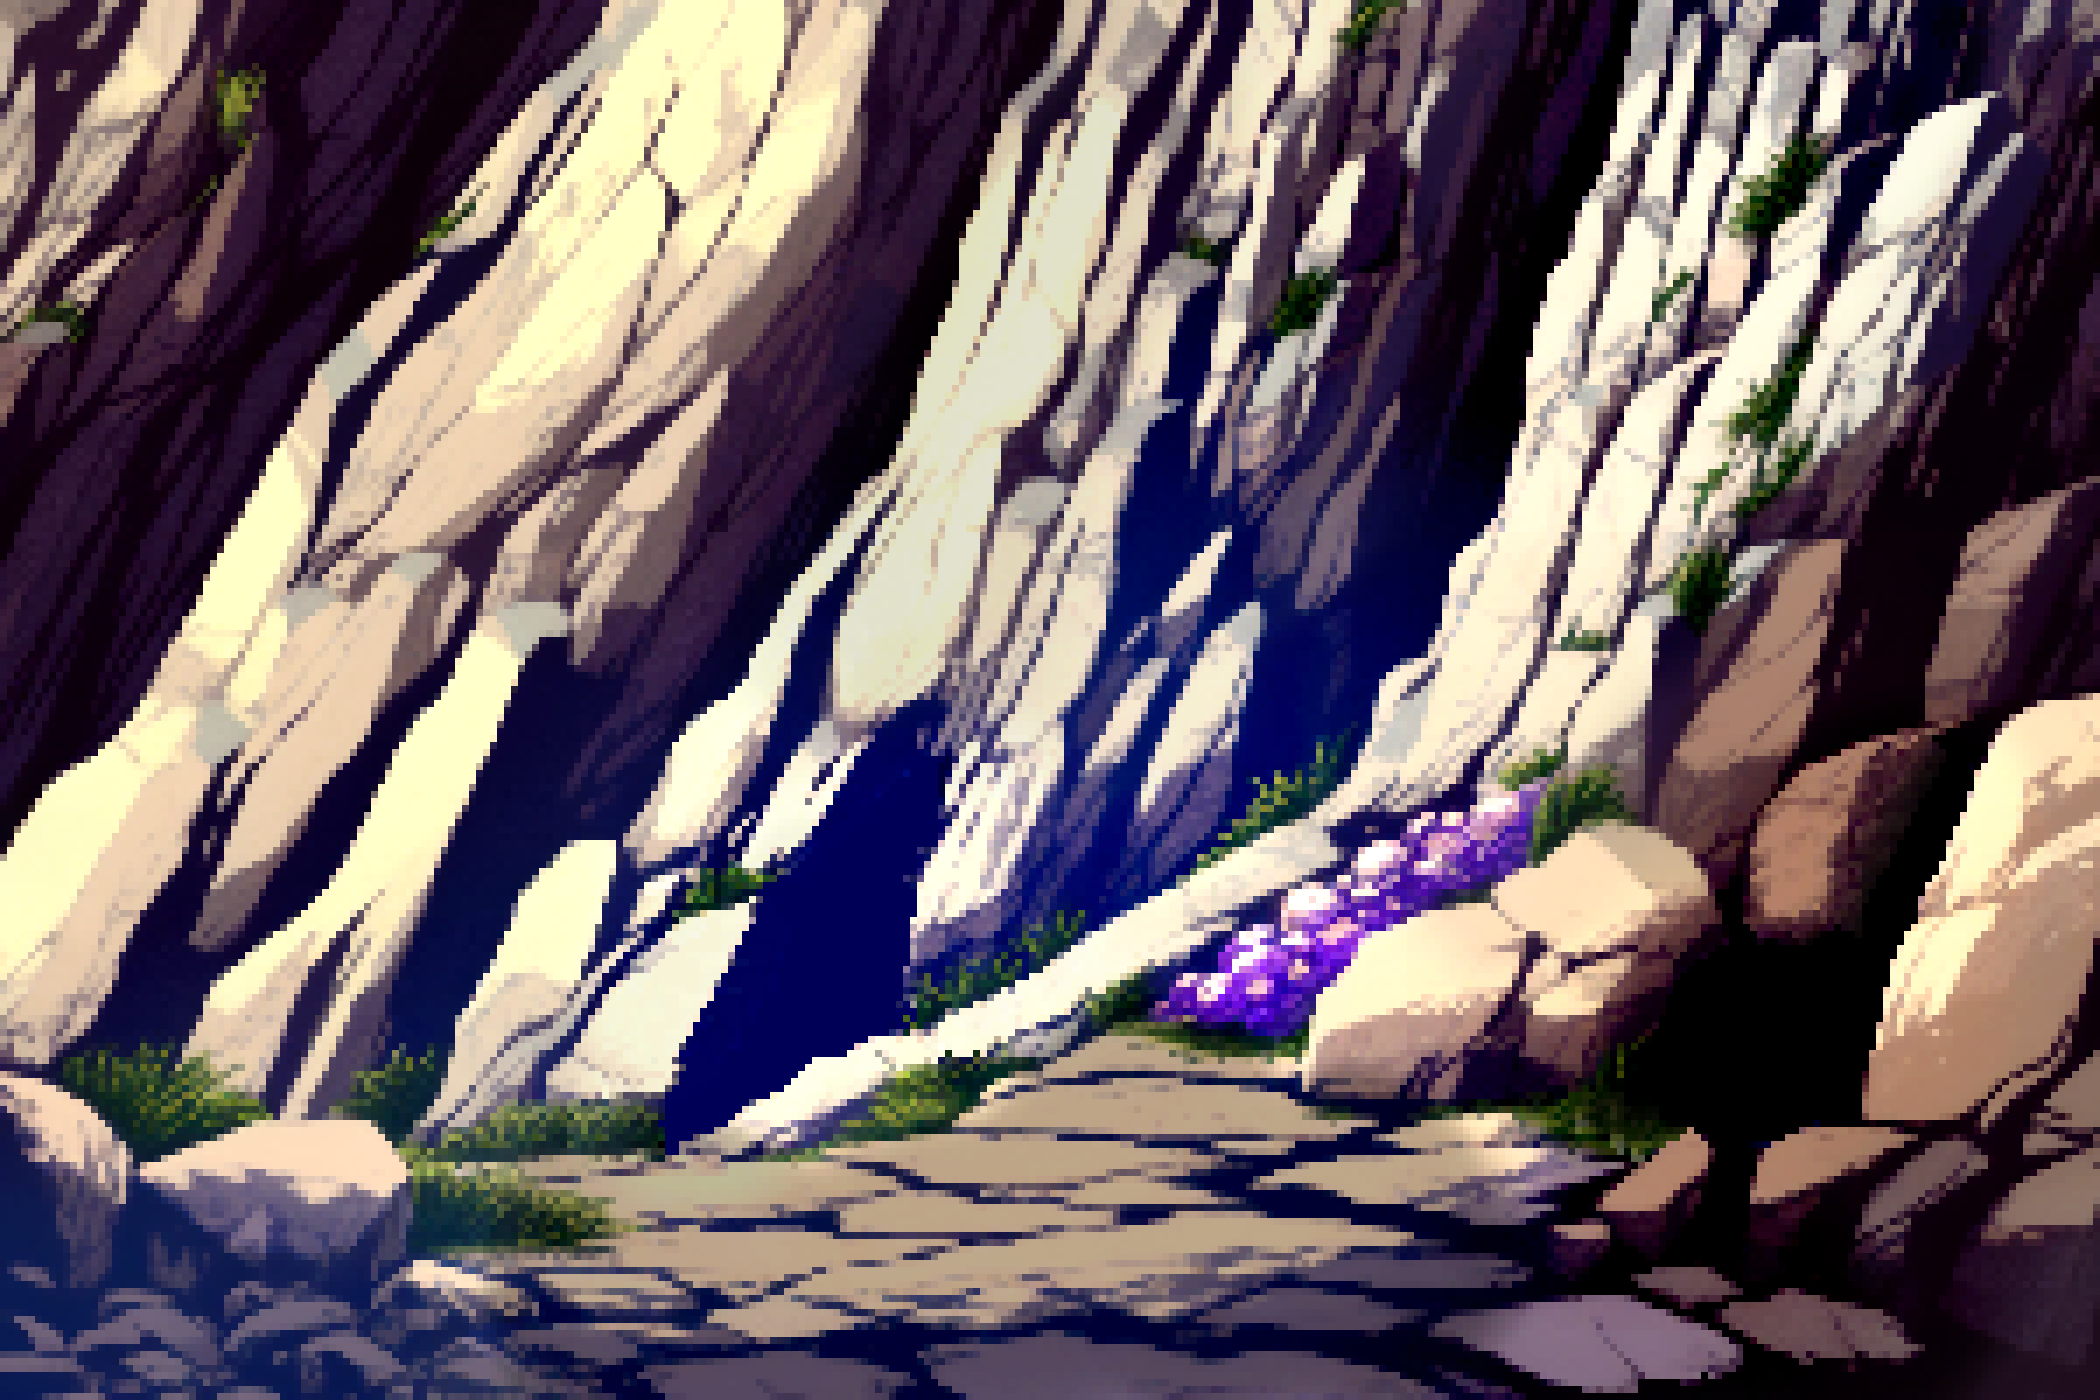
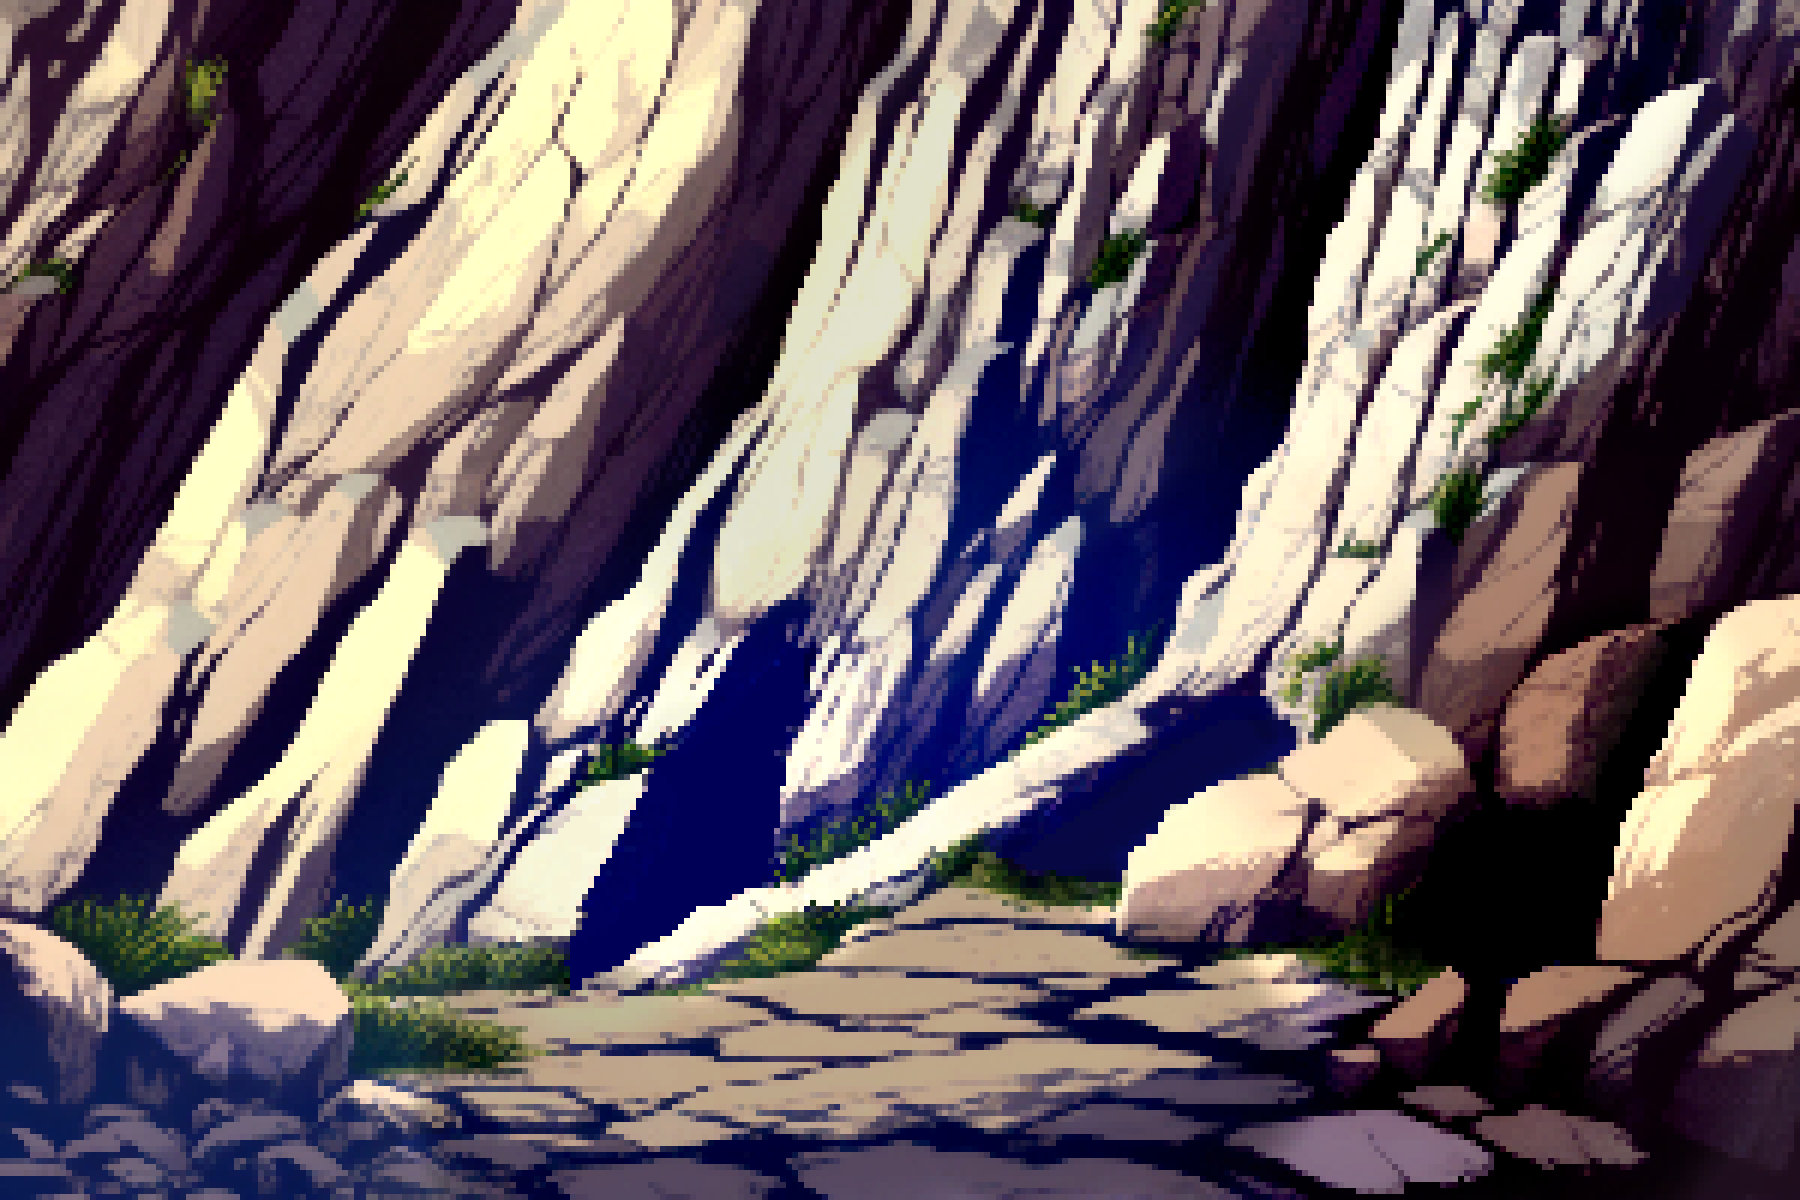
made m1l seeds general, removed p1water

Changed region(s): [[0.5289, 0.555, 0.7467, 0.74]]

diff --git a/pixel/m1l/m1l.js b/pixel/m1l/m1l.js
@@ -58,13 +58,18 @@ function ready() {
         });
     }
 
-    var hyBut = document.getElementsByClassName("amythest-seeds-but")[0];
-    hyBut.addEventListener('click', function tk() {
-        hold = held();
-        if (hold == "pickaxe" || hold == "purple-pickaxe" || hold == "red-pickaxe" || hold == "green-pickaxe"){
-            getIte("amythest-seeds");
-        }
-    });
+    var seedsBut = document.getElementsByClassName("amythest-seeds-but")[0];
+    if (localStorage.getItem("has-amythest-seeds") == "true") {
+        take(seedsBut, "amythest-seeds");
+    } else {
+        seedsBut.addEventListener('click', function tk() {
+            hold = held();
+            if (hold == "pickaxe" || hold == "purple-pickaxe" || hold == "red-pickaxe" || hold == "green-pickaxe"){
+                seedsBut.removeEventListener('click', tk);
+                take(seedsBut, "amythest-seeds");
+            }
+        });
+    }
 }
 
 function held(){
@@ -88,9 +93,17 @@ function take(button, name) {
     else {
         button.addEventListener('click', function tk() {
             hold = held();
-            if (hold == "purple-pickaxe" || hold == "red-pickaxe" || hold == "green-pickaxe"){
-                button.removeEventListener('click', tk);
-                take(button, name);
+            if (name == "amythest-seeds"){
+                if (hold == "pickaxe" || hold == "purple-pickaxe" || hold == "red-pickaxe" || hold == "green-pickaxe"){
+                    button.removeEventListener('click', tk);
+                    take(button, name);
+                }
+            }
+            else {
+                if (hold == "purple-pickaxe" || hold == "red-pickaxe" || hold == "green-pickaxe"){
+                    button.removeEventListener('click', tk);
+                    take(button, name);
+                }
             }
         });
     }
@@ -108,9 +121,17 @@ function put(button, name) {
         initItems();
         button.addEventListener('click', function tk() {
             hold = held();
-            if (hold == "purple-pickaxe" || hold == "red-pickaxe" || hold == "green-pickaxe"){
-                button.removeEventListener('click', tk);
-                take(button, name);
+            if (name == "amythest-seeds"){
+                if (hold == "pickaxe" || hold == "purple-pickaxe" || hold == "red-pickaxe" || hold == "green-pickaxe"){
+                    button.removeEventListener('click', tk);
+                    take(button, name);
+                }
+            }
+            else {
+                if (hold == "purple-pickaxe" || hold == "red-pickaxe" || hold == "green-pickaxe"){
+                    button.removeEventListener('click', tk);
+                    take(button, name);
+                }
             }
         });
     } else {

diff --git a/pixel/garden/garden.js b/pixel/garden/garden.js
@@ -114,7 +114,7 @@ function toWater(spot){
     var text = document.getElementsByClassName("plot-" + spot + "-art")[0];
 
     button.addEventListener('click', function wt(){
-        if (localStorage.getItem("spot" + localStorage.getItem("selected")) == "can" && localStorage.getItem("p1water") == "true"){
+        if (localStorage.getItem("spot" + localStorage.getItem("selected")) == "can" && localStorage.getItem("ascii-water") == "true"){
             button.removeEventListener('click', wt);
             localStorage.setItem("p1plot-state" + spot, "toGrow");
             text.innerHTML = plArts["watered"];

diff --git a/pixel/m1l/m1l.html b/pixel/m1l/m1l.html
@@ -26,6 +26,7 @@
         <img draggable="false" class="fore-art amythest1-art" src="m1l-art/m1l-left-gem.png" alt="">
         <img draggable="false" class="fore-art amythest2-art" src="m1l-art/m1l-right-gem.png" alt="">
         <img draggable="false" class="fore-art amythest3-art" src="m1l-art/m1l-center-gem.png" alt="">
+        <img draggable="false" class="fore-art amythest-seeds-art" src="m1l-art/m1l-seeds.png" alt="">
 
         <div id="award1">
             <img draggable="false" class="hide award-art" id="awardimg1" src="../../global-art/achievements/award1.png" alt="">

diff --git a/ascii/home.js b/ascii/home.js
@@ -88,7 +88,6 @@ function resett(ite){
     localStorage.setItem("rpot-full", "false");
     localStorage.setItem("tpot-full", "true");
     localStorage.setItem("ascii-water", "false");
-    localStorage.setItem("p1water", "false");
 
     localStorage.setItem("torch-placed", "false");
     localStorage.setItem("rope-placed", "false");
